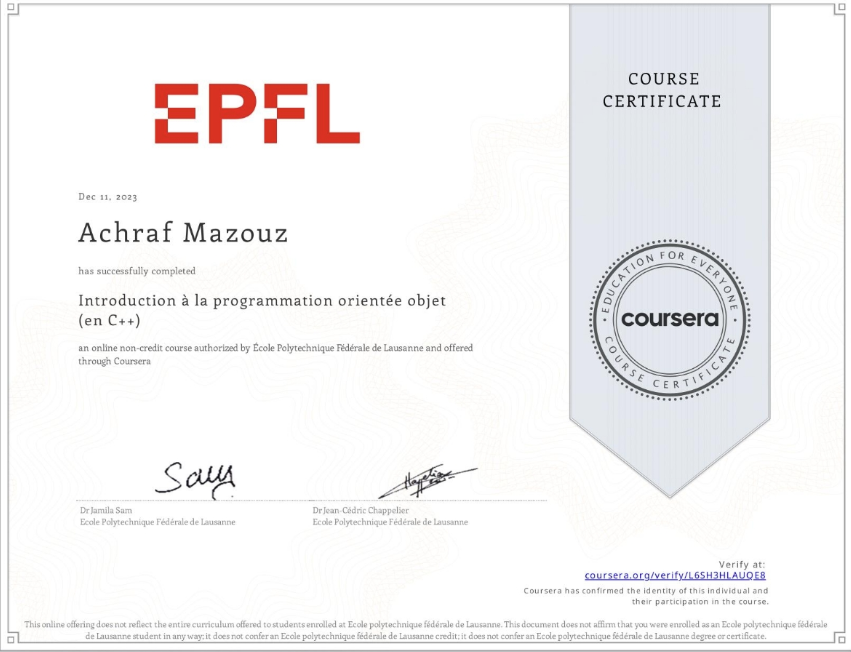
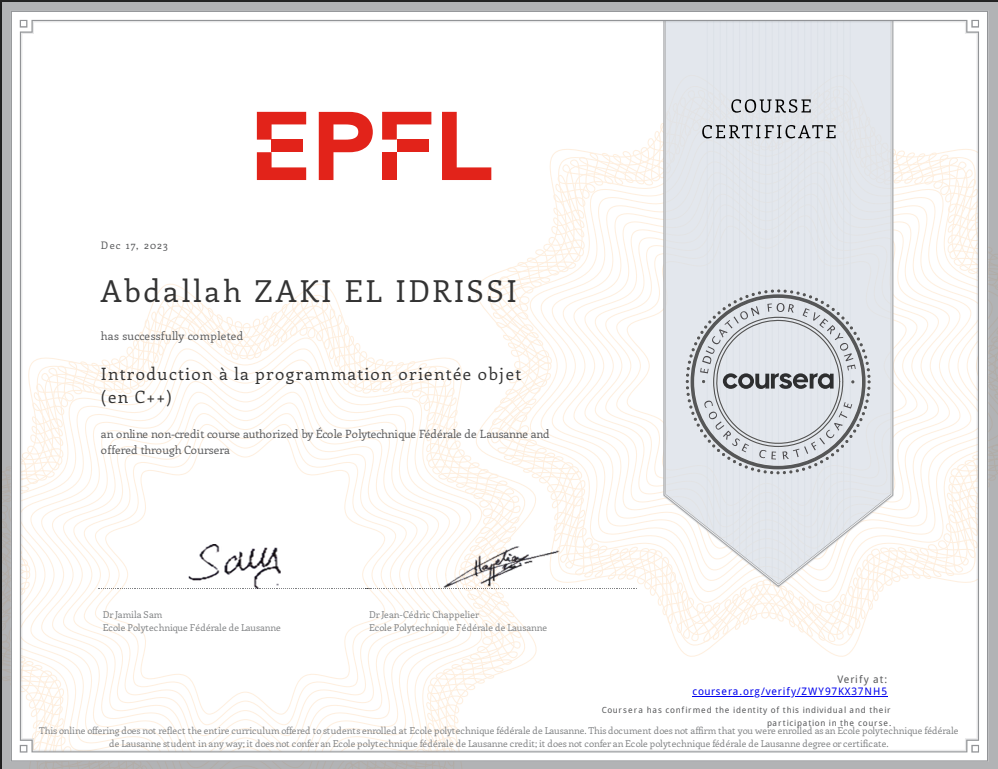
new2

diff --git a/src/components/Certification/Certification.js b/src/components/Certification/Certification.js
@@ -10,7 +10,7 @@ function Certification() {
       <div className="certificates">
         {/* Certification 1 */}
         <a
-          href="https://www.coursera.org/account/accomplishments/verify/BLQ1XZUZ044M"
+          href="https://coursera.org/share/b02f169c6d47ed5a6b9efa5f82811413"
           target="_blank"
           rel="noopener noreferrer"
           className="certificate-card"
@@ -20,12 +20,12 @@ function Certification() {
             alt="Certification 1"
             className="certificate-image"
           />
-          <p>Certification 1</p>
+          <p>Scrum Master Profession</p>
         </a>
 
         {/* Certification 2 */}
         <a
-          href="https://www.coursera.org/account/accomplishments/verify/6LQQ7XD2JZN2"
+          href="https://coursera.org/share/bc4e7884d85063187c799b86c1c0d699"
           target="_blank"
           rel="noopener noreferrer"
           className="certificate-card"
@@ -35,7 +35,7 @@ function Certification() {
             alt="Certification 2"
             className="certificate-image"
           />
-          <p>Certification 3</p>
+          <p>React Basics</p>
         </a>
         <a
           href=""
@@ -51,7 +51,7 @@ function Certification() {
           <p>Certification 4</p>
         </a>
         <a
-          href="https://www.coursera.org/account/accomplishments/verify/PEJMWDNEN7Q4"
+          href="https://coursera.org/share/90804cd58eed9e1016b32a6b7552f5d9"
           target="_blank"
           rel="noopener noreferrer"
           className="certificate-card"
@@ -61,7 +61,7 @@ function Certification() {
             alt="Certification 1"
             className="certificate-image"
           />
-          <p>Certification 5</p>
+          <p>Java and Object-Oriented Programming</p>
         </a>
         <a
           href="https://www.coursera.org/account/accomplishments/certificate/KVTJ36RDQEVZ"

diff --git a/src/components/Contact/Contact.js b/src/components/Contact/Contact.js
@@ -8,7 +8,7 @@ import ScrollAnimation from "react-animate-on-scroll";
 function Contact() {
   const [showTooltip, setShowTooltip] = useState(false);
   const copyToClipboard = () => {
-    navigator.clipboard.writeText("achrafmazouz50@gmail.com");
+    navigator.clipboard.writeText("elidrissiabdallah689@gmail.com");
     setShowTooltip(true);
     setTimeout(() => {
       setShowTooltip(false);
@@ -57,7 +57,7 @@ function Contact() {
   </div>
   <a
     className="btn PrimaryBtn btn-shadow"
-    href="mailto:achrafmazouz50@gmail.com"
+    href="mailto:elidrissiabdallah689@gmail.com"
     target="_blank"
     rel="noopener noreferrer"
   >

diff --git a/src/components/Dropdown/Dropdown.js b/src/components/Dropdown/Dropdown.js
@@ -96,7 +96,7 @@ function Dropdown({ isOpen, toggle }) {
       <NavBtn onClick={toggle}>
         <a
           className="btn PrimaryBtn"
-          href="https://www.linkedin.com/in/achraf-mazouz-b308481a1/"
+          href="https://www.linkedin.com/in/abdallah-zaki-el-idrissi-23484121b/"
           target="_blank"
           rel="noopener noreferrer"
         >
